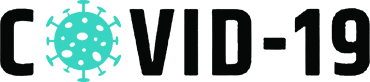
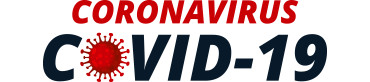
Change img & Change color count number

diff --git a/src/components/Cards.vue b/src/components/Cards.vue
@@ -3,31 +3,37 @@
     <div id="cards">
       <v-row class="justify-center">
         <v-col cols="12" md="3">
-          <v-card class="text-center text-md-left">
-            <v-card-subtitle class="pb-0 text-md-left">Infected</v-card-subtitle>
-            <v-card-title id="title">{{ datas.confirmed.value.toLocaleString() }}</v-card-title>
-            <v-card-text>
-              <div>{{ new Date(datas.lastUpdate).toDateString() }}</div>
-            </v-card-text>
-          </v-card>
+          <v-lazy min-height="100" transition="fab-transition">
+            <v-card class="text-center text-md-left">
+              <v-card-subtitle class="pb-0 text-md-left">Infected</v-card-subtitle>
+              <v-card-title id="Infected">{{ datas.confirmed.value.toLocaleString() }}</v-card-title>
+              <v-card-text>
+                <div>{{ new Date(datas.lastUpdate).toDateString() }}</div>
+              </v-card-text>
+            </v-card>
+          </v-lazy>
         </v-col>
         <v-col cols="12" md="3">
+          <v-lazy min-height="100" transition="fab-transition">
           <v-card class="text-center text-md-left" >
             <v-card-subtitle class="pb-0 text-md-left">Recovered</v-card-subtitle>
-            <v-card-title id="title">{{ datas.recovered.value.toLocaleString() }}</v-card-title>
+            <v-card-title id="Recovered">{{ datas.recovered.value.toLocaleString() }}</v-card-title>
             <v-card-text>
               <div>{{ new Date(datas.lastUpdate).toDateString() }}</div>
             </v-card-text>
           </v-card>
+          </v-lazy>
         </v-col>
         <v-col cols="12" md="3">
+          <v-lazy min-height="100" transition="fab-transition">
            <v-card class="text-center text-md-left">
             <v-card-subtitle class="pb-0 text-md-left">Deaths</v-card-subtitle>
-            <v-card-title id="title" class="text-center">{{ datas.deaths.value.toLocaleString() }}</v-card-title>
+            <v-card-title id="Deaths" class="text-center">{{ datas.deaths.value.toLocaleString() }}</v-card-title>
             <v-card-text>
               <div>{{ new Date(datas.lastUpdate).toDateString() }}</div>
             </v-card-text>
           </v-card>
+          </v-lazy>
         </v-col>
       </v-row>
     </div>
@@ -46,8 +52,22 @@ export default {
   font-size: 18px;
 }
 
-#title {
+#Infected {
+  color: rgb(58, 99, 212);
+}
+#Recovered {
+  color: rgb(58, 212, 140);
+}
+#Deaths {
+    color: rgb(212, 58, 58);
+}
+
+.v-card__title {
   display: inline-flex;
   font-size: 43px;
+}
+
+.v-card__subtitle {
+  font-size: 18px;
 }
 </style>

diff --git a/src/App.vue b/src/App.vue
@@ -2,11 +2,11 @@
   <v-container>
     <v-app id="app">
       <v-content>
+        <br />
         <v-row class="justify-center">
-          <img alt="Vue logo" src="@/assets/covid19.png" />
-        </v-row>
-        <v-row class="justify-center">
-          <h1>TRACKER WEB</h1>
+          <v-lazy min-height="100" transition="scale-transition">
+            <img src="@/assets/covid19.png" />
+          </v-lazy>
         </v-row>
         <v-row class="justify-center">
           <Cards :datas="{ confirmed, recovered, deaths, lastUpdate }" />
